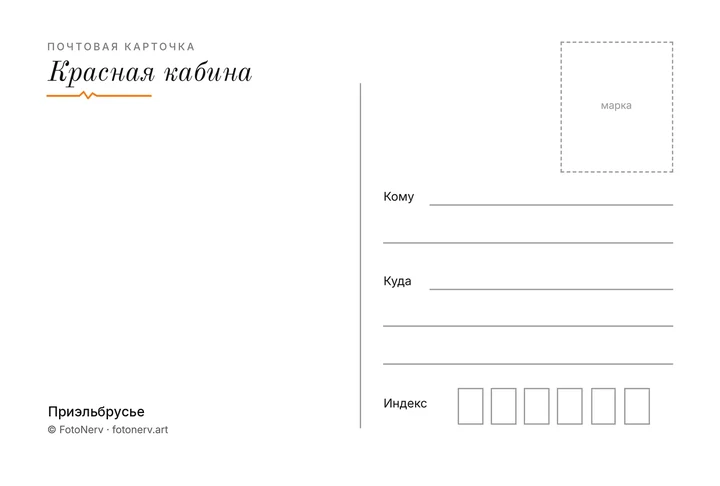
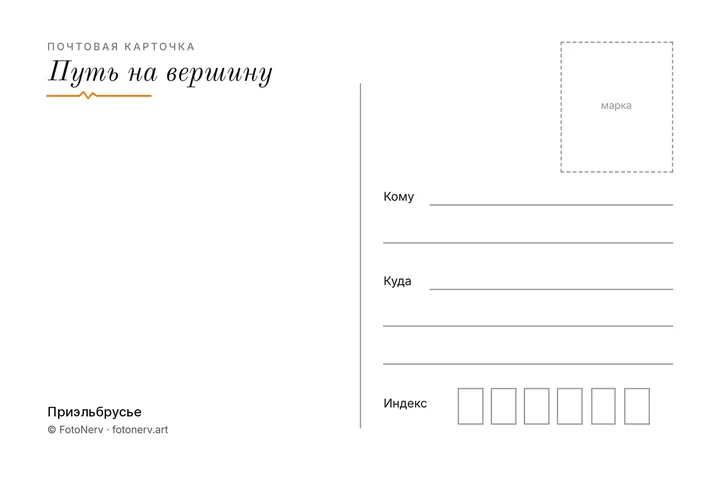
Открытки: Снежник у Эльбруса, Склоны Эльбруса, Путь на вершину, Тырныауз осенью — названия и обороты
Claude-Session: https://claude.ai/code/session_01W8sp1A4HA26wJ3ApHHb6XP

Changed region(s): [[0.0611, 0.1235, 0.3972, 0.1852], [0.0611, 0.8333, 0.2139, 0.8642]]

diff --git a/assets/shop-data.js b/assets/shop-data.js
@@ -3243,7 +3243,7 @@ window.SHOP_DATA = /*JSON-START*/{
     },
     {
       "id": "kav-valley-town",
-      "title": "Посёлок в долине",
+      "title": "Тырныауз осенью",
       "caption": "Кавказ",
       "img": "img/shop/kav-valley-town.webp",
       "thumb": "img/shop/thumb/kav-valley-town.webp",
@@ -3299,7 +3299,7 @@ window.SHOP_DATA = /*JSON-START*/{
     },
     {
       "id": "kav-cable-car",
-      "title": "Красная кабина",
+      "title": "Путь на вершину",
       "caption": "Приэльбрусье",
       "img": "img/shop/kav-cable-car.webp",
       "thumb": "img/shop/thumb/kav-cable-car.webp",
@@ -4528,7 +4528,7 @@ window.SHOP_DATA = /*JSON-START*/{
     },
     {
       "id": "kav-snowball",
-      "title": "Снежный ком",
+      "title": "Снежник у Эльбруса",
       "caption": "Приэльбрусье",
       "img": "img/shop/kav-snowball.webp",
       "thumb": "img/shop/thumb/kav-snowball.webp",
@@ -4752,7 +4752,7 @@ window.SHOP_DATA = /*JSON-START*/{
     },
     {
       "id": "kav-glacier-clouds",
-      "title": "Ледники Эльбруса",
+      "title": "Склоны Эльбруса",
       "caption": "Приэльбрусье",
       "img": "img/shop/kav-glacier-clouds.webp",
       "thumb": "img/shop/thumb/kav-glacier-clouds.webp",

diff --git a/shop-cards.html b/shop-cards.html
@@ -645,7 +645,7 @@
 
 <div class="toast" id="toast" role="status" aria-live="polite" hidden></div>
 
-<script src="assets/shop-data.js?v=202611202100"></script>
+<script src="assets/shop-data.js?v=202611202200"></script>
 <script src="assets/shop-core.js?v=202611201600"></script>
 <script src="assets/shop.js?v=202611202100"></script>
 </body>

diff --git a/shop-wall.html b/shop-wall.html
@@ -695,7 +695,7 @@
 
 <div class="toast" id="toast" role="status" aria-live="polite" hidden></div>
 
-<script src="assets/shop-data.js?v=202611202100"></script>
+<script src="assets/shop-data.js?v=202611202200"></script>
 <script src="assets/shop-core.js?v=202611201600"></script>
 <script src="assets/shop.js?v=202611202100"></script>
 </body>

diff --git a/shop.html b/shop.html
@@ -695,7 +695,7 @@
 
 <div class="toast" id="toast" role="status" aria-live="polite" hidden></div>
 
-<script src="assets/shop-data.js?v=202611202100"></script>
+<script src="assets/shop-data.js?v=202611202200"></script>
 <script src="assets/shop-core.js?v=202611201600"></script>
 <script src="assets/shop.js?v=202611202100"></script>
 </body>
